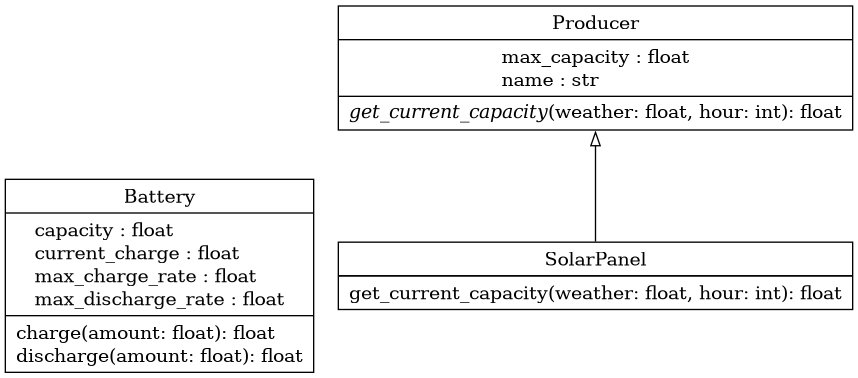
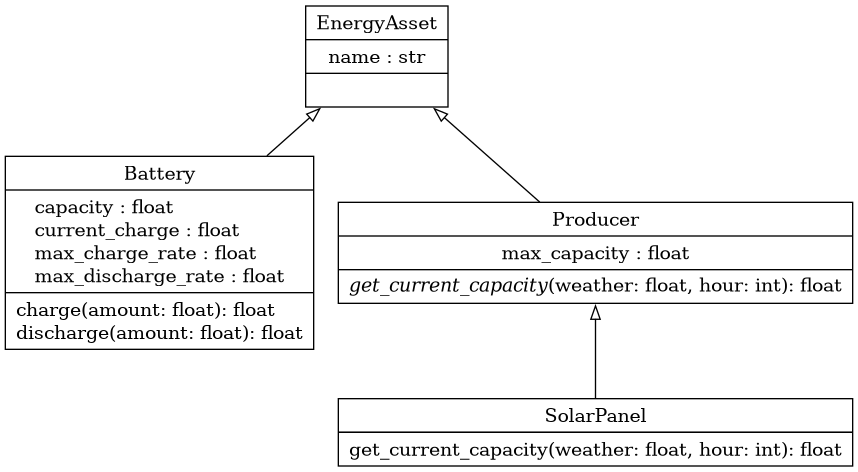
Created parent class for all Energy Grid assets

Changed region(s): [[0.0, 0.2037, 1.0, 0.9894], [0.3333, 0.0, 1.0, 0.1746], [0.3636, 0.4365, 0.3939, 0.4656]]

diff --git a/src/producer.py b/src/producer.py
@@ -1,8 +1,11 @@
-class Producer:
+from .energy_asset import EnergyAsset
+
+
+class Producer(EnergyAsset):
     """Parent class for all power producers"""
 
     def __init__(self, name: str, max_capacity: float):
-        self.name = name
+        super().__init__(name)
         self.max_capacity = max_capacity # in kW
 
     def get_current_capacity(self, weather: float, hour: int) -> float:

diff --git a/src/energy_asset.py b/src/energy_asset.py
@@ -1,0 +1,6 @@
+class EnergyAsset:
+    """
+    Base/parent class for all energy assets in the energy grid
+    """
+    def __init__(self, name: str):
+        self.name = name

diff --git a/src/battery.py b/src/battery.py
@@ -1,8 +1,11 @@
-class Battery:
+from .energy_asset import EnergyAsset
+
+class Battery(EnergyAsset):
     """Can store energy"""
 
     def __init__(self, capacity: float, current_charge: float,
                  max_charge_rate: float, max_discharge_rate: float):
+        super().__init__("Battery")
         self.capacity = capacity
         self.current_charge = current_charge
         self.max_charge_rate = max_charge_rate

diff --git a/src/solarpanel.py b/src/solarpanel.py
@@ -3,8 +3,8 @@ from .producer import Producer
 class SolarPanel(Producer):
     """Produces energy when the sun is shining."""
 
-    def __init__(self, name: str, max_capacity: float):
-        super().__init__(name, max_capacity)
+    def __init__(self, max_capacity: float):
+        super().__init__("Solar Panel", max_capacity)
 
     def get_current_capacity(self, weather: float, hour: int) -> float:
         """Returns current power production by solar panel"""

diff --git a/energy-grid-simulator.md b/energy-grid-simulator.md
@@ -17,7 +17,8 @@ Das System ist stark modular aufgebaut. Neue Erzeuger oder Verbraucher können i
 
 **A. Das Management: `EnergyGrid`**
 * **Attribute:** Listen für `producers`, `consumers` und `batteries`. Das aktuelle `weather`.
-* **Methoden:** * `simulate_step()`: Führt einen Zeit-Tick (z.B. eine Stunde) in der Simulation aus.
+* **Methoden:** 
+    * `simulate_step()`: Führt einen Zeit-Tick (z.B. eine Stunde) in der Simulation aus.
     * `balance_grid()`: Kern-Algorithmus zum Ausgleich von Erzeugung und Verbrauch.
 * **Interaktion:** Das Grid ist der "Orchestrator". Es iteriert über alle Erzeuger, um die verfügbare Gesamtenergie zu berechnen, und gleicht diese mit der Summe des Bedarfs aller Verbraucher ab. Überschüsse leitet es an die Methoden der `Battery`-Objekte weiter.
 